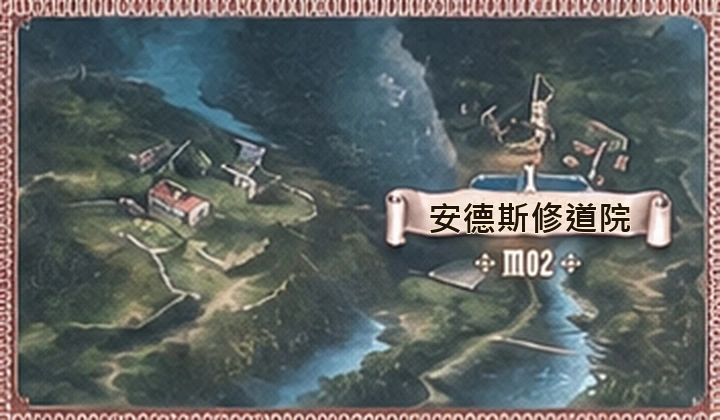
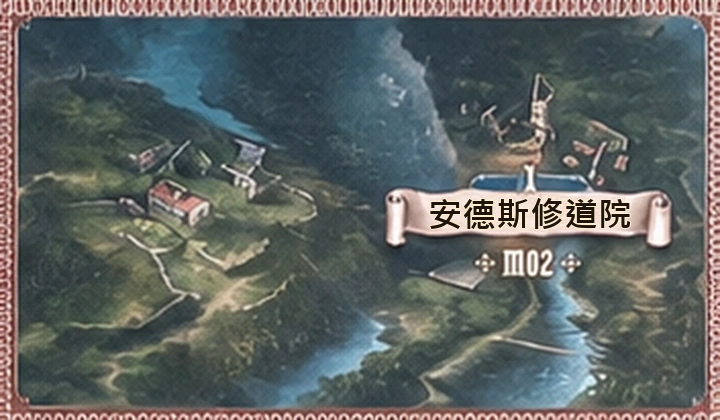
fix(map): fine-tune front location text and apply uniform red-frame backs
- Calibrate bounding boxes for M02, M03, M04, M10, M11, M13, M15, M20 in generator script
- Apply uniform red-frame crop for all 20 back map cards (M01-M20)
- Add utility scripts for uniform red-frame back splitting and preview rendering
- Bump map asset cache query string to v=12 in CampaignMapPage

Changed region(s): [[0.5806, 0.4643, 0.8861, 0.5571]]

diff --git a/src/pages/CampaignMapPage.tsx b/src/pages/CampaignMapPage.tsx
@@ -116,7 +116,7 @@ export function CampaignMapPage({ session, loading }: { session: AuthSession | n
           >
             <img
               alt={tile.mapCode + (tile.isRevealed ? ' 正面' : ' 背面')}
-              src={'/images/campaign/maps/' + tile.mapCode + '-' + (tile.isRevealed ? 'front' : 'back') + '.webp?v=7'}
+              src={'/images/campaign/maps/' + tile.mapCode + '-' + (tile.isRevealed ? 'front' : 'back') + '.webp?v=12'}
             />
             <span className="map-tile-state">{tile.isRevealed ? '已揭示' : '未揭示'}</span>
             {occupied && <span className="hunter-marker" title="獵人目前位置"><MapPin aria-hidden="true" /></span>}

diff --git a/scripts/render_uniform_red_frame_preview.py b/scripts/render_uniform_red_frame_preview.py
@@ -1,0 +1,58 @@
+from pathlib import Path
+from shutil import copy2
+from PIL import Image, ImageDraw, ImageFilter, ImageFont
+
+ROOT=Path(__file__).resolve().parents[1]
+MAPS=ROOT/"public/images/campaign/maps"
+BASE=MAPS/"red-frame-uniform-base"
+BLANKS=MAPS/"uniform-name-blanks"
+OUTPUT=MAPS/"red-frame-uniform-preview"
+FONT=Path(r"C:\Windows\Fonts\msjhbd.ttc")
+
+DATA={
+"M02":("安德斯修道院",(375,170,685,256)),
+"M03":("謝夫特拉恩修道院",(170,260,527,347)),
+"M04":("瓦瑟堡",(327,273,672,382)),
+"M10":("彭茨貝格",(175,283,530,372)),
+"M11":("泰根湖修道院",(310,278,650,370)),
+"M13":("菲森修道院",(212,249,557,348)),
+"M14":("維爾茨堡",(35,274,400,375)),
+"M15":("阿亨瓦爾德",(92,253,472,365)),
+"M20":("斯洛施堡",(235,199,635,301)),
+}
+
+def feather_mask(size,feather=7):
+ m=Image.new("L",size,0); d=ImageDraw.Draw(m)
+ d.rectangle((feather,feather,size[0]-feather-1,size[1]-feather-1),fill=255)
+ return m.filter(ImageFilter.GaussianBlur(feather/2))
+
+def fit_font(draw,text,box):
+ maxw=box[2]-box[0]-54; maxh=box[3]-box[1]-24
+ for size in range(34,17,-1):
+  f=ImageFont.truetype(str(FONT),size)
+  b=draw.textbbox((0,0),text,font=f,stroke_width=1)
+  if b[2]-b[0]<=maxw and b[3]-b[1]<=maxh:return f
+ return ImageFont.truetype(str(FONT),18)
+
+OUTPUT.mkdir(parents=True,exist_ok=True)
+for n in range(1,21):
+ code=f"M{n:02d}"; dst=OUTPUT/f"{code}-front.webp"
+ if code not in DATA:
+  copy2(BASE/f"{code}-front.webp",dst); continue
+ image=Image.open(BASE/f"{code}-front.webp").convert("RGB")
+ blank=Image.open(BLANKS/f"{code}-blank.png").convert("RGB")
+ text,box=DATA[code]
+ patch=blank.crop(box)
+ image.paste(patch,box[:2],feather_mask(patch.size))
+ draw=ImageDraw.Draw(image); font=fit_font(draw,text,box)
+ b=draw.textbbox((0,0),text,font=font,stroke_width=1)
+ x=box[0]+(box[2]-box[0]-(b[2]-b[0]))/2-b[0]
+ y=box[1]+(box[3]-box[1]-(b[3]-b[1]))/2-b[1]
+ draw.text((round(x),round(y)),text,font=font,fill=(31,20,14),stroke_width=1,stroke_fill=(255,239,205))
+ image.save(dst,"WEBP",quality=95,method=6)
+
+sheet=Image.new("RGB",(2880,2100),(5,13,14))
+for n in range(1,21):
+ code=f"M{n:02d}"
+ sheet.paste(Image.open(OUTPUT/f"{code}-front.webp").convert("RGB"),(((n-1)%4)*720,((n-1)//4)*420))
+sheet.save(OUTPUT/"contact-sheet.jpg",quality=95,subsampling=0)

diff --git a/scripts/split_uniform_red_frame_back_cards.py b/scripts/split_uniform_red_frame_back_cards.py
@@ -1,0 +1,25 @@
+from pathlib import Path
+from PIL import Image
+
+ROOT=Path(__file__).resolve().parents[1]
+MAPS=ROOT/"public/images/campaign/maps"
+SOURCE=Image.open(MAPS/"clear-back-sheet.png").convert("RGB")
+OUT=MAPS/"red-frame-uniform-back-preview"
+OUT.mkdir(parents=True,exist_ok=True)
+X=[7,365,722,1080,1441]
+Y=[7,221,430,640,845,1074]
+for row in range(5):
+ for col in range(4):
+  code=f"M{row*4+col+1:02d}"
+  card=SOURCE.crop((X[col],Y[row],X[col+1],Y[row+1]))
+  card=card.resize((720,420),Image.Resampling.LANCZOS)
+  card.save(OUT/f"{code}-back.webp","WEBP",quality=95,method=6)
+
+revealed={"M02","M03","M04","M06","M07","M08","M09","M11","M12","M15","M16","M20"}
+front=MAPS/"red-frame-uniform-preview"
+sheet=Image.new("RGB",(2880,2100),(5,13,14))
+for n in range(1,21):
+ code=f"M{n:02d}"
+ p=front/f"{code}-front.webp" if code in revealed else OUT/f"{code}-back.webp"
+ sheet.paste(Image.open(p).convert("RGB"),(((n-1)%4)*720,((n-1)//4)*420))
+sheet.save(OUT/"mixed-contact-sheet.jpg",quality=95,subsampling=0)
